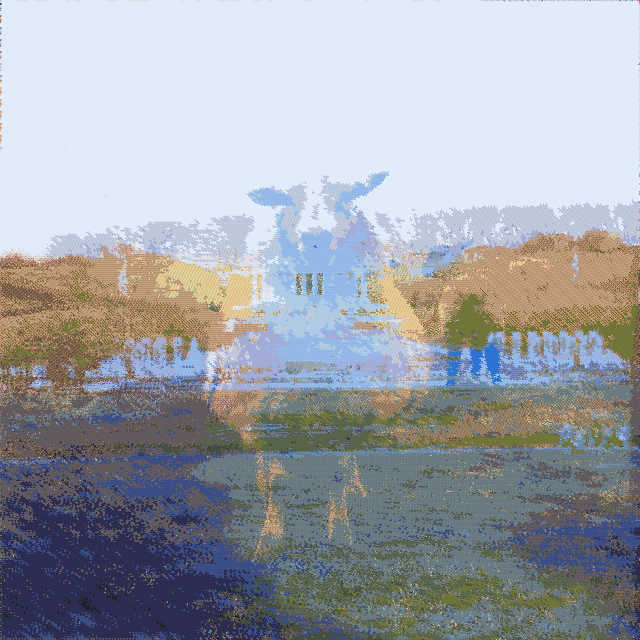
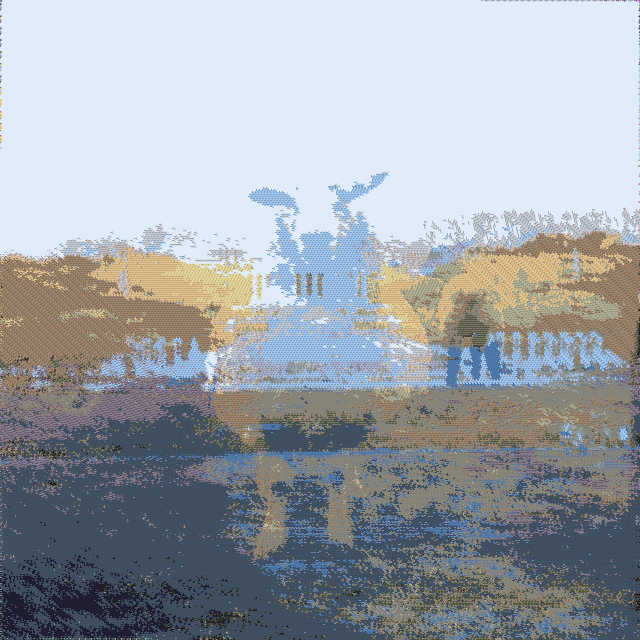
0076 - node --harmony /index.js

diff --git a/sketches/0076/index.js b/sketches/0076/index.js
@@ -87,7 +87,7 @@ var getPath = function(imgId){
 co(function*(){
 
 	var BLOCK_SIZE = 6;
-	var NUM_COLORS = 16;
+	var NUM_COLORS = 4;
 
 	var mash = function(a){
 		return Math.max.apply(null, a);
